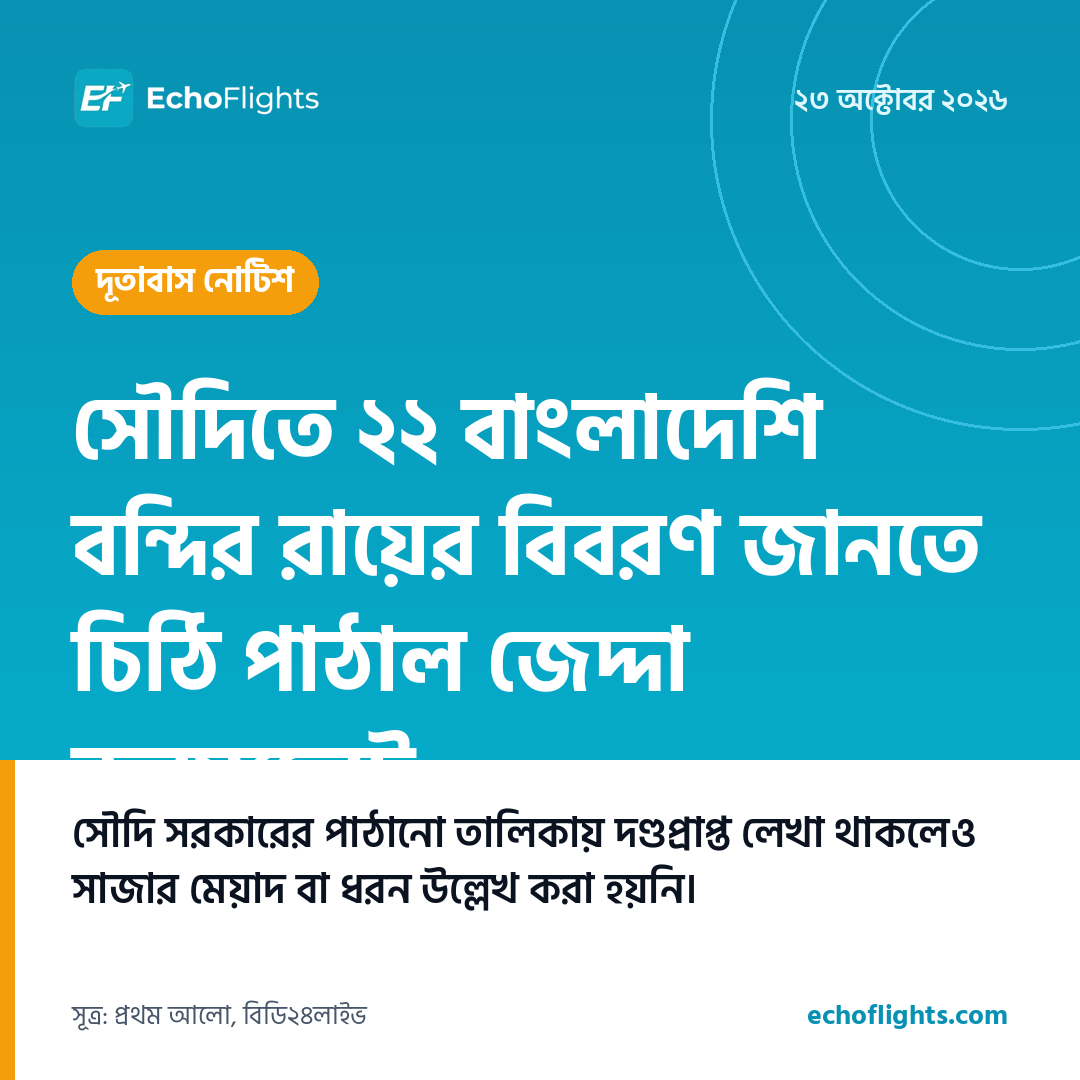
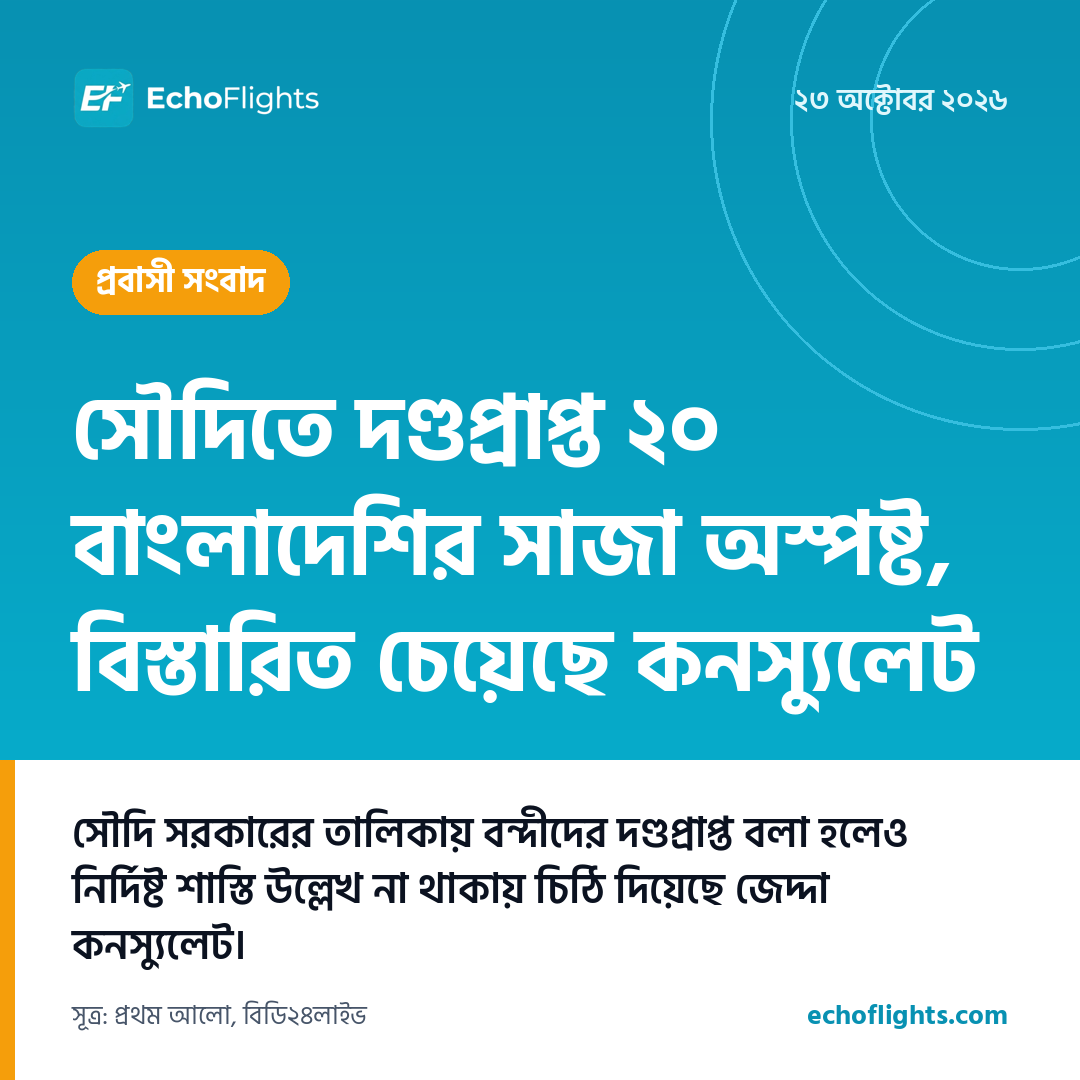
Draft 2026-10-23 07:12 UTC

diff --git a/data/drafts/2026-10-23/a3796f3b2c/blog.md b/data/drafts/2026-10-23/a3796f3b2c/blog.md
@@ -1,17 +1,17 @@
-# সৌদিতে ২২ বাংলাদেশি বন্দির সাজার বিবরণ জানতে জেদ্দা কনস্যুলেটের চিঠি
+# সৌদিতে দণ্ডপ্রাপ্ত ২০ বাংলাদেশির সাজা অস্পষ্ট: বিস্তারিত রায়ের তথ্য চেয়েছে জেদ্দা কনস্যুলেট
 
-সৌদি আরবের বিভিন্ন কারাগারে বন্দি থাকা ২২ জন বাংলাদেশি নাগরিকের সাজা ও রায়ের বিস্তারিত তথ্য জানতে সৌদি আরবের পররাষ্ট্র মন্ত্রণালয়ে চিঠি দিয়েছে জেদ্দায় বাংলাদেশ কনস্যুলেট। সম্প্রতি প্রকাশিত বন্দিদের তালিকায় তাঁদের নামের পাশে ‘দণ্ডপ্রাপ্ত’ লেখা থাকলেও সাজার ধরন বা মেয়াদ উল্লেখ করা হয়নি।
+সৌদি আরবের বিভিন্ন কারাগারে থাকা দণ্ডপ্রাপ্ত ২০ জন বাংলাদেশি নাগরিকের সাজার বিস্তারিত তথ্য জানতে দেশটির পররাষ্ট্র মন্ত্রণালয়ে চিঠি দিয়েছে জেদ্দায় অবস্থিত বাংলাদেশ কনস্যুলেট। গত ১৯ অক্টোবর প্রেরিত চিঠিতে ওই বন্দীদের রায়ের সারসংক্ষেপ দ্রুত পাঠানোর অনুরোধ জানানো হয়েছে, যাতে কনস্যুলার সেবা নিশ্চিত করা যায়।
 
 ## কী ঘটেছে
-গত ৩০ সেপ্টেম্বর সৌদি আরবের পররাষ্ট্র মন্ত্রণালয় জেদ্দায় বাংলাদেশ কনস্যুলেটের আওতাধীন এলাকায় থাকা ২ হাজার ৪৬১ জন বাংলাদেশি বন্দির একটি তালিকা পাঠায়। সেই তালিকা পর্যালোচনা করে দেখা যায়, ২২ জন বন্দির ক্ষেত্রে ‘অবস্থা’ কলামে ‘দণ্ডপ্রাপ্ত’ লেখা থাকলেও ‘রায়ের সারসংক্ষেপ’ কলামটি ফাঁকা রয়েছে।
+গত ৩০ সেপ্টেম্বর সৌদি পররাষ্ট্র মন্ত্রণালয় জেদ্দা কনস্যুলেটের কর্মপরিধির আওতাভুক্ত এলাকা থেকে ২ হাজার ৪৬১ জন বাংলাদেশি বন্দীর একটি তালিকা পাঠায়। তালিকাটি পর্যালোচনা করে দেখা যায়, ২২ জন বন্দীর 'অবস্থা' কলামে 'দণ্ডপ্রাপ্ত' লেখা থাকলেও শাস্তির ধরন বা মেয়াদের ঘর খালি রাখা হয়েছে।
 
-এই ২২ জনের তালিকায় নজরুল ইসলাম ও সুইটি আক্তার নামের দুজন ছিলেন, যাঁদের সম্প্রতি মৃত্যুদণ্ড কার্যকর হয়েছে। বাকি ২০ জন বন্দির সাজার বিষয়ে নিশ্চিত হওয়া যায়নি। কনস্যুলেট সূত্রে জানা গেছে, ২২ জনের মধ্যে ৮ জন হত্যা মামলা, ৫ জন মাদক পাচার, ৫ জন ‘ব্যক্তিগত অধিকার’, ২ জন রাষ্ট্রীয় আইন লঙ্ঘন, ১ জন সাইবার অপরাধ এবং ১ জন ব্যভিচার মামলায় অভিযুক্ত।
-
-গত ১৯ অক্টোবর জেদ্দা কনস্যুলেট মক্কা অঞ্চলের সৌদি পররাষ্ট্র মন্ত্রণালয়ে চিঠি পাঠিয়ে দ্রুত রায়ের সারসংক্ষেপ চেয়ে অনুরোধ পাঠায়। জেদ্দায় বাংলাদেশের কনসাল জেনারেল মো. শাখাওয়াত হোসেন জানান, বন্দিদের সঠিকভাবে কনস্যুলার সেবা দেওয়া এবং কনস্যুলেটের তথ্যভান্ডার হালনাগাদ করার স্বার্থেই এই তথ্য চাওয়া হয়েছে।
+এই ২২ জনের মধ্যে সম্প্রতি দুই বাংলাদেশি—নজরুল ইসলাম ও সুইটি আক্তারের মৃত্যুদণ্ড কার্যকর হওয়ায় বাকি ২০ জনের আইনি পরিণতি নিয়ে গভীর উদ্বেগ দেখা দিয়েছে। তালিকায় থাকা বন্দীদের মধ্যে আটজনের বিরুদ্ধে হত্যা, পাঁচজনের বিরুদ্ধে মাদক পাচার এবং পাঁচজনের বিরুদ্ধে 'ব্যক্তিগত অধিকার' সংক্রান্ত মামলা রয়েছে। আইনি সহায়তা, আপিল ও সঠিক তথ্য সংরক্ষণের স্বার্থে কনস্যুলেট জরুরি ভিত্তিতে সৌদি কর্তৃপক্ষের কাছে স্পষ্ট রায়ের সারসংক্ষেপ চেয়েছে।
 
 ## বাংলাদেশি যাত্রী ও প্রবাসীদের জন্য
-সৌদি আরবে অবস্থানরত বাংলাদেশি প্রবাসীদের স্থানীয় সব আইনকানুন কঠোরভাবে মেনে চলার পরামর্শ দেওয়া হচ্ছে। কোনো প্রবাসী বা তাঁদের পরিবার আইনি জটিলতা কিংবা বন্দি সম্পর্কিত তথ্য জানতে সরাসরি জেদ্দায় বাংলাদেশ কনস্যুলেট বা রিয়াদের বাংলাদেশ দূতাবাসের অফিশিয়াল চ্যানেলে যোগাযোগ করতে পারেন। যেকোনো আইনি সহায়তা বা তথ্যের জন্য দূতাবাসের অফিশিয়াল মাধ্যম ব্যবহার করা নিরাপদ।
+সৌদি আরবে অবস্থানরত বাংলাদেশি নাগরিক এবং সেখানে যাওয়ার পরিকল্পনা করছেন এমন প্রবাসীদের স্থানীয় আইনকানুন কঠোরভাবে মেনে চলার পরামর্শ দেওয়া হচ্ছে। বিশেষ করে মাদক, সহিংসতা বা রাষ্ট্রীয় আইন লঙ্ঘনের মতো মারাত্মক অপরাধ থেকে বিরত থাকা অত্যন্ত জরুরি।
+
+যেকোনো আইনি জটিলতা বা জরুরি প্রয়োজনে প্রবাসীদের জেদ্দায় বাংলাদেশ কনস্যুলেট বা রিয়াদে বাংলাদেশ দূতাবাসের সঙ্গে তাদের অফিসিয়াল মাধ্যমে যোগাযোগ করার অনুরোধ করা হচ্ছে।
 
 ## সূত্র
-* প্রথম আলো
-* বিডি২৪লাইভ
+- প্রথম আলো
+- বিডি২৪লাইভ

diff --git a/data/drafts/README.md b/data/drafts/README.md
@@ -2,27 +2,27 @@
 
 Newest first. Nothing here has been published.
 
-## সৌদিতে ২২ বাংলাদেশি বন্দির রায়ের বিবরণ জানতে চিঠি পাঠাল জেদ্দা কনস্যুলেট
+## সৌদিতে দণ্ডপ্রাপ্ত ২০ বাংলাদেশির সাজা অস্পষ্ট, বিস্তারিত চেয়েছে কনস্যুলেট
 
-⏳ will retry · 23 Oct 08:02 Dhaka · score 10 · expat_alert · sources: BD24Live, Prothom Alo
+❌ rejected · 23 Oct 13:03 Dhaka · score 10 · expat_alert · sources: BD24Live, Prothom Alo
 
 <img src="2026-10-23/a3796f3b2c/card.png" width="420">
 
 **Facebook caption**
 
 ```
-সৌদি আরবে কারাগারে থাকা ২২ জন বাংলাদেশি বন্দির সাজার বিষয়ে সুনির্দিষ্ট তথ্য চেয়ে সৌদি সরকারের কাছে চিঠি দিয়েছে জেদ্দায় বাংলাদেশ কনস্যুলেট।
+সৌদি আরবের বিভিন্ন কারাগারে বন্দি থাকা ২০ জন বাংলাদেশির দণ্ডাদেশ সম্পর্কিত বিস্তারিত তথ্য জানতে দেশটির পররাষ্ট্র মন্ত্রণালয়ে চিঠি দিয়েছে জেদ্দায় বাংলাদেশ কনস্যুলেট।
 
-গত ৩০ সেপ্টেম্বর সৌদি পররাষ্ট্র মন্ত্রণালয় ২,৪৬১ জন বন্দির একটি তালিকা পাঠায়। তাতে ২২ জনের নামের পাশে 'দণ্ডপ্রাপ্ত' লেখা থাকলেও সাজার বিস্তারিত তথ্য ফাঁকা রাখা হয়েছে। এই তালিকার মধ্যে সম্প্রতি মৃত্যুদণ্ড কার্যকর হওয়া নজরুল ইসলাম ও সুইটি আক্তারও ছিলেন। বাকি ২০ জন বন্দির সাজার ধরন জানতে গত ১৯ অক্টোবর সৌদি কর্তৃপক্ষের কাছে চিঠি পাঠানো হয়।
+সৌদি সরকারের পাঠানো ২ হাজার ৪৬১ জন বন্দীর তালিকায় ২২ জনের নামের পাশে 'দণ্ডপ্রাপ্ত' লেখা থাকলেও শাস্তির মেয়াদ বা ধরন উল্লেখ ছিল না। সম্প্রতি এই তালিকাভুক্ত দুজন বাংলাদেশির মৃত্যুদণ্ড কার্যকরের পর বাকি ২০ জনের সাজা নিয়ে অনিশ্চয়তা দেখা দিয়েছে।
 
-প্রবাসীদের সঠিক কনস্যুলার সুবিধা প্রদান এবং রেকর্ড হালনাগাদ করার স্বার্থে এই রায়ের সারসংক্ষেপ জরুরি বলে জানিয়েছেন কনসাল জেনারেল মো. শাখাওয়াত হোসেন।
+কনস্যুলার সেবা নিশ্চিত করতে ও তথ্যভান্ডার হালনাগাদে রায়ের সারসংক্ষেপ জরুরি বলে জানিয়েছে কনস্যুলেট।
 
-সূত্র: প্রথম আলো, বিডি২৪লাইভ
+সূত্র: প্রথম আলো ও বিডি২৪লাইভ
 
-#SaudiArabia #ExpatNews #JeddahConsulate #BangladeshExpats #EchoFlights
+#SaudiArabia #ExpatNews #JeddahConsulate #BangladeshiExpats #EchoFlights
 ```
 
-**Blog:** [সৌদিতে ২২ বাংলাদেশি বন্দির সাজার বিবরণ জানতে জেদ্দা কনস্যুলেটের চিঠি](2026-10-23/a3796f3b2c/blog.md) · slug `saudi-arabia-bangladeshi-prisoners-sentence-details-jeddah-consulate`
+**Blog:** [সৌদিতে দণ্ডপ্রাপ্ত ২০ বাংলাদেশির সাজা অস্পষ্ট: বিস্তারিত রায়ের তথ্য চেয়েছে জেদ্দা কনস্যুলেট](2026-10-23/a3796f3b2c/blog.md) · slug `saudi-arabia-imprisoned-bangladeshis-verdict-details-requested`
 
 **Sources:** [প্রথম আলো](https://www.prothomalo.com/bangladesh/9v9wjre6oy) · [প্রথম আলো](https://en.prothomalo.com/bangladesh/7oikjfhf7o) · [বিডি২৪লাইভ](https://www.bd24live.com/bangla/810477)
 
@@ -30,7 +30,33 @@ Newest first. Nothing here has been published.
 
 - caption: number 24 does not appear in any source
 - blog_body: number 24 does not appear in any source
-- -: rewrite could not run: gemini-3.6-flash: HTTP 503 after 1s b'{\n  "error": {\n    "code": 503,\n    "message": "This model is currently experiencing high demand. Spikes in d
+
+_Rewritten once after review (2 issues in first draft)._
+
+---
+
+## দক্ষিণ আফ্রিকায় চাঁদা না দেওয়ায় শরীয়তপুরের প্রবাসী ব্যবসায়ী গুলিতে নিহত
+
+✅ approved · 23 Oct 13:03 Dhaka · score 10 · expat_alert · sources: BD24Live, Bangladesh Journal
+
+<img src="2026-10-23/014c99d6d4/card.png" width="420">
+
+**Facebook caption**
+
+```
+দক্ষিণ আফ্রিকায় সন্ত্রাসীদের দাবিকৃত চাঁদা দিতে অস্বীকৃতি জানানোয় মারুফ বেপারি নামের এক বাংলাদেশি প্রবাসীকে গুলি করে হত্যা করা হয়েছে।
+
+বুধবার (২১ অক্টোবর) রাতে দেশটির কেপটাউনের বুস্টার এলাকায় নিজ ব্যবসাপ্রতিষ্ঠানে তিনি গুলিতে নিহত হন। নিহত মারুফ শরীয়তপুরের ডামুড্যা উপজেলার বাসিন্দা। তিনি ১৪ বছরের বেশি সময় ধরে সেখানে ব্যবসা করছিলেন। স্থানীয় একটি সন্ত্রাসী চক্র তাঁর কাছে প্রতি মাসে ৫০০ র্যান্ড চাঁদা দাবি করত। নিহতের মরদেহ বর্তমানে দক্ষিণ আফ্রিকার একটি হাসপাতালে রয়েছে। মরদেহ দ্রুত দেশে ফিরিয়ে আনতে সরকারের সহযোগিতা চেয়েছেন তাঁর স্বজনেরা।
+
+সূত্র: বাংলাদেশ জার্নাল, বিডি টুয়েন্টিফোর লাইভ
+#SouthAfrica #BangladeshiExpat #Shariatpur #ExpatNews #EchoFlights
+```
+
+**Blog:** [দক্ষিণ আফ্রিকায় সন্ত্রাসীদের গুলিতে শরীয়তপুরের প্রবাসী ব্যবসায়ী নিহত](2026-10-23/014c99d6d4/blog.md) · slug `bangladeshi-expat-killed-in-south-africa`
+
+**Sources:** [বাংলাদেশ জার্নাল](https://www.bd-journal.com/international/314592/দক্ষিণ-আফ্রিকায়-চাঁদা-না-দেওয়ায়-শরীয়তপুরের-প্রবাসীকে-গুলি-করে-হত্যা) (feed summary only) · [বিডি২৪লাইভ](https://www.bd24live.com/bangla/810481)
+
+_Rewritten once after review (2 issues in first draft)._
 
 ---
 

diff --git a/data/drafts/2026-10-23/014c99d6d4/blog.md b/data/drafts/2026-10-23/014c99d6d4/blog.md
@@ -1,0 +1,15 @@
+# দক্ষিণ আফ্রিকায় সন্ত্রাসীদের গুলিতে শরীয়তপুরের প্রবাসী ব্যবসায়ী নিহত
+
+দক্ষিণ আফ্রিকায় সন্ত্রাসীদের দাবিকৃত চাঁদা না দেওয়ায় মারুফ বেপারি নামের এক বাংলাদেশি প্রবাসী ব্যবসায়ীকে গুলি করে হত্যা করা হয়েছে। নিহত মারুফ শরীয়তপুরের ডামুড্যা উপজেলার সিড্যা ইউনিয়নের পশ্চিম সিড্যা এলাকার মৃত আব্দুস সোবহান বেপারির ছেলে।
+
+## কী ঘটেছে
+স্বজন ও স্থানীয় সূত্রে জানা গেছে, মারুফ বেপারি জীবিকার তাগিদে ১৪ বছরের বেশি সময় ধরে দক্ষিণ আফ্রিকায় ব্যবসা পরিচালনা করছিলেন। বুধবার (২১ অক্টোবর) রাত আনুমানিক ১০টার দিকে কেপটাউনের বুস্টার এলাকায় নিজের দোকানে অবস্থানকালে সন্ত্রাসীরা তাঁকে লক্ষ্য করে গুলি চালায়। পরদিন বৃহস্পতিবার (২২ অক্টোবর) সকালে মারুফের মৃত্যুর খবর দেশে তাঁর পরিবারের কাছে পৌঁছায়। তাঁর তিন সন্তান রয়েছে।
+
+নিহতের ছেলে মো. সিফাত জানান, স্থানীয় সন্ত্রাসী চক্র প্রতি মাসে ৫০০ র্যান্ড চাঁদা দাবি করত। গত তিন মাসের মধ্যে দোকান দুই মাস বন্ধ থাকায় মারুফ বেপারি কেবল এক মাসের চাঁদা দিতে চেয়েছিলেন। এ নিয়ে কথা কাটাকাটির একপর্যায়ে সন্ত্রাসীরা টাকা নিয়ে চলে যায় এবং কিছুক্ষণ পর ফিরে এসে তাঁকে গুলি করে হত্যা করে। মারুফ বেপারির মরদেহ বর্তমানে দক্ষিণ আফ্রিকার একটি হাসপাতালে রয়েছে। মরদেহ দ্রুত দেশে ফিরিয়ে আনার জন্য সরকারের কাছে জোর দাবি জানিয়েছেন নিহতের পরিবার ও স্বজনেরা।
+
+## বাংলাদেশি যাত্রী ও প্রবাসীদের জন্য
+দক্ষিণ আফ্রিকায় অবস্থানরত প্রবাসী বাংলাদেশি ও ব্যবসায়ীদের নিরাপত্তা ঝুঁকিপূর্ণ পরিস্থিতিতে সর্বোচ্চ সতর্কতা অবলম্বন করার পরামর্শ দেওয়া হচ্ছে। যেকোনো ধরনের হুমকি বা চাঁদাবাজির ঘটনা ঘটলে স্থানীয় পুলিশ প্রশাসনের পাশাপাশি প্রিটোরিয়ায় অবস্থিত বাংলাদেশ দূতাবাসের অফিশিয়াল চ্যানেলে যোগাযোগ করে দ্রুত সহায়তা চাওয়া উচিত।
+
+## সূত্র
+- বাংলাদেশ জার্নাল
+- বিডি টুয়েন্টিফোর লাইভ
